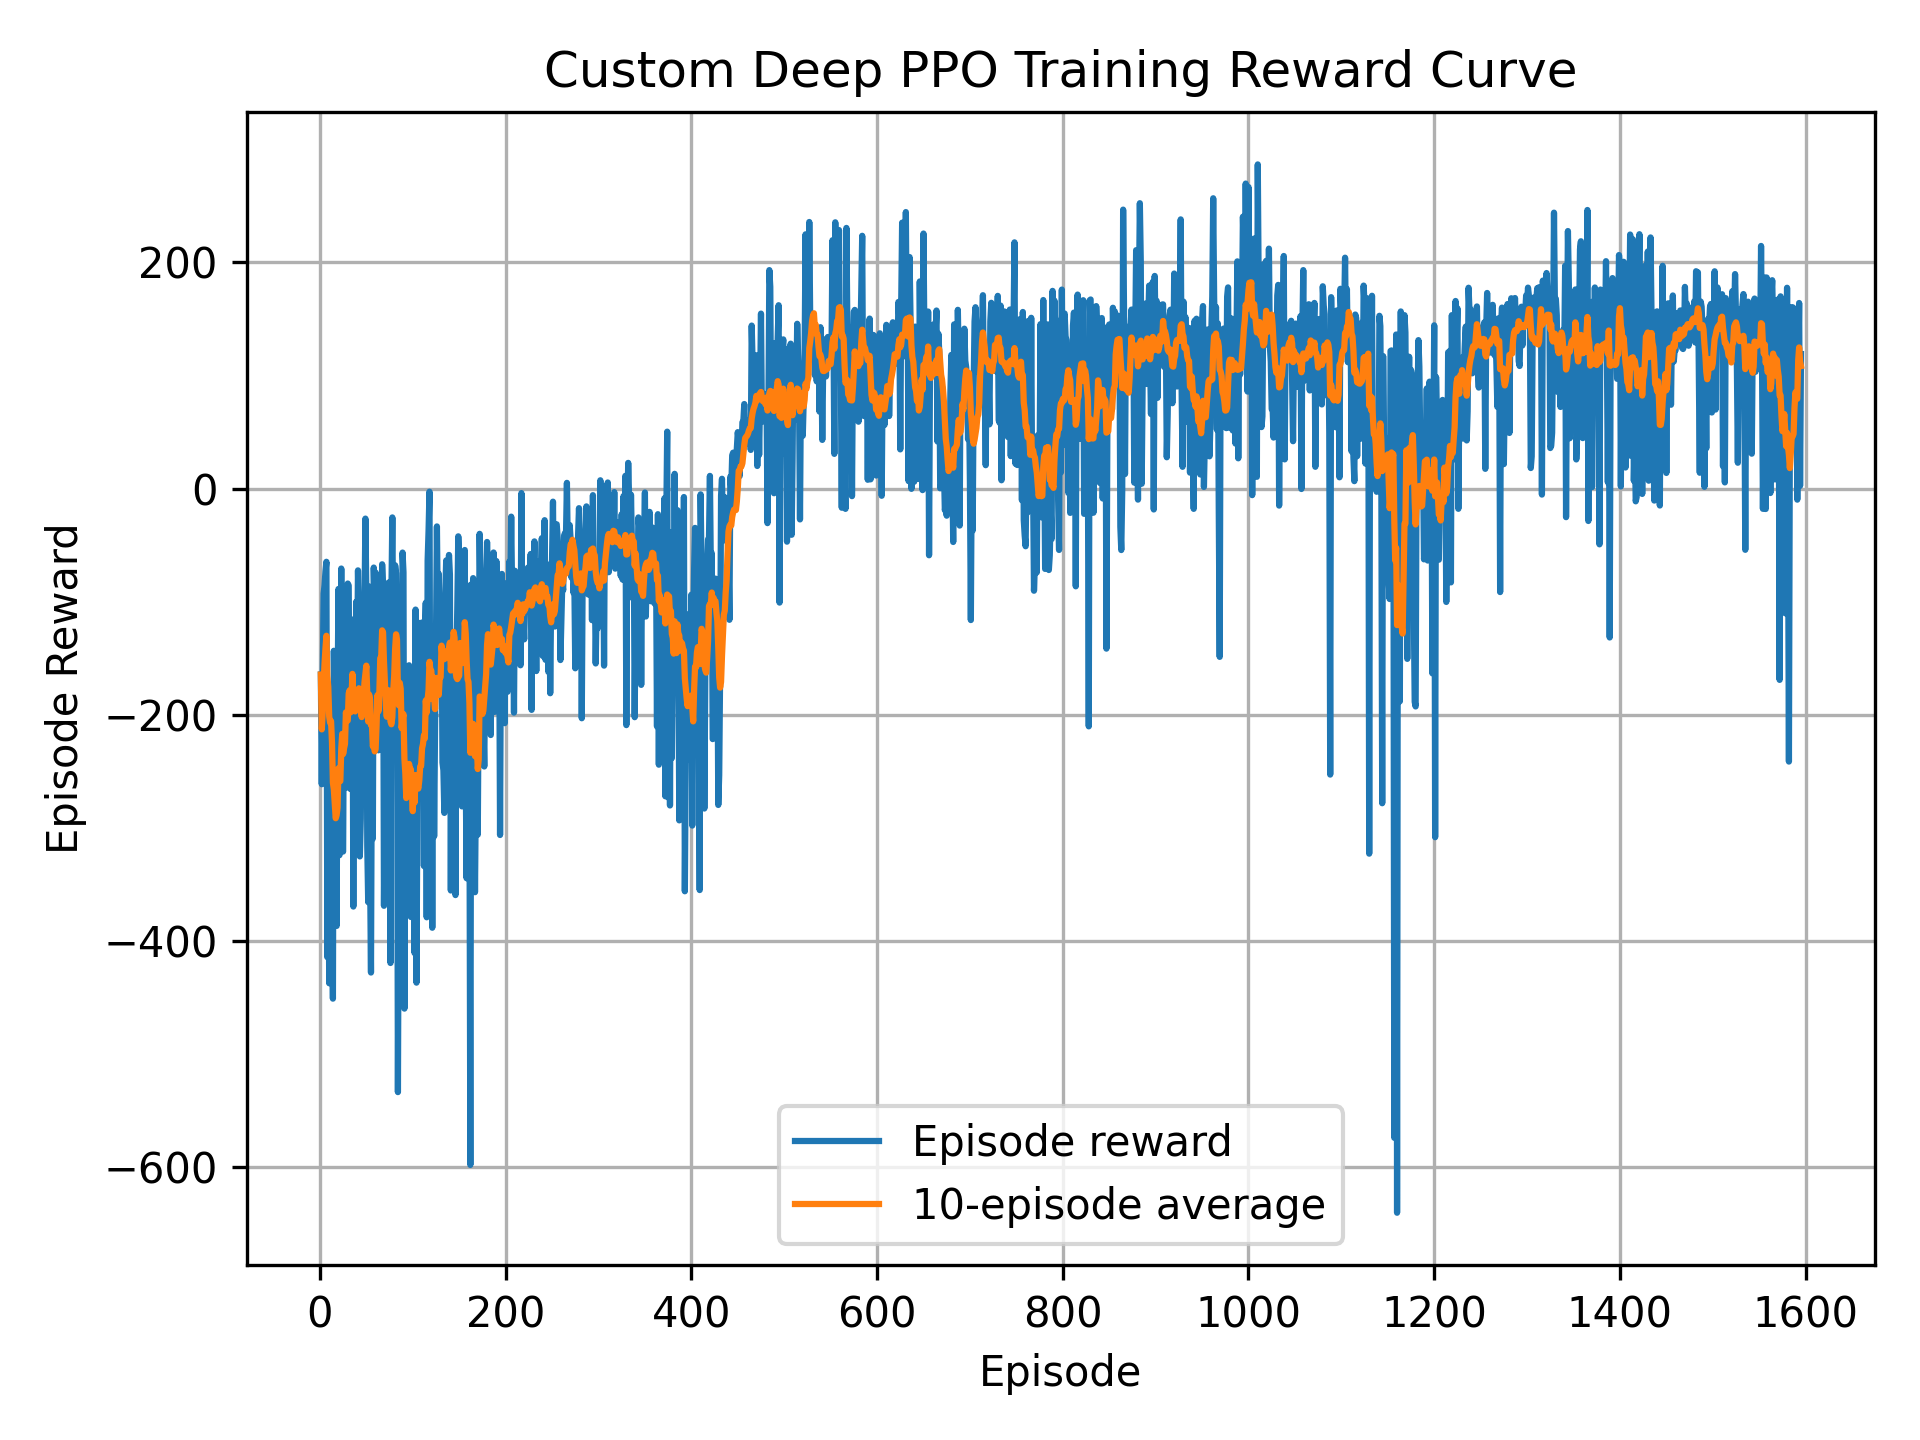
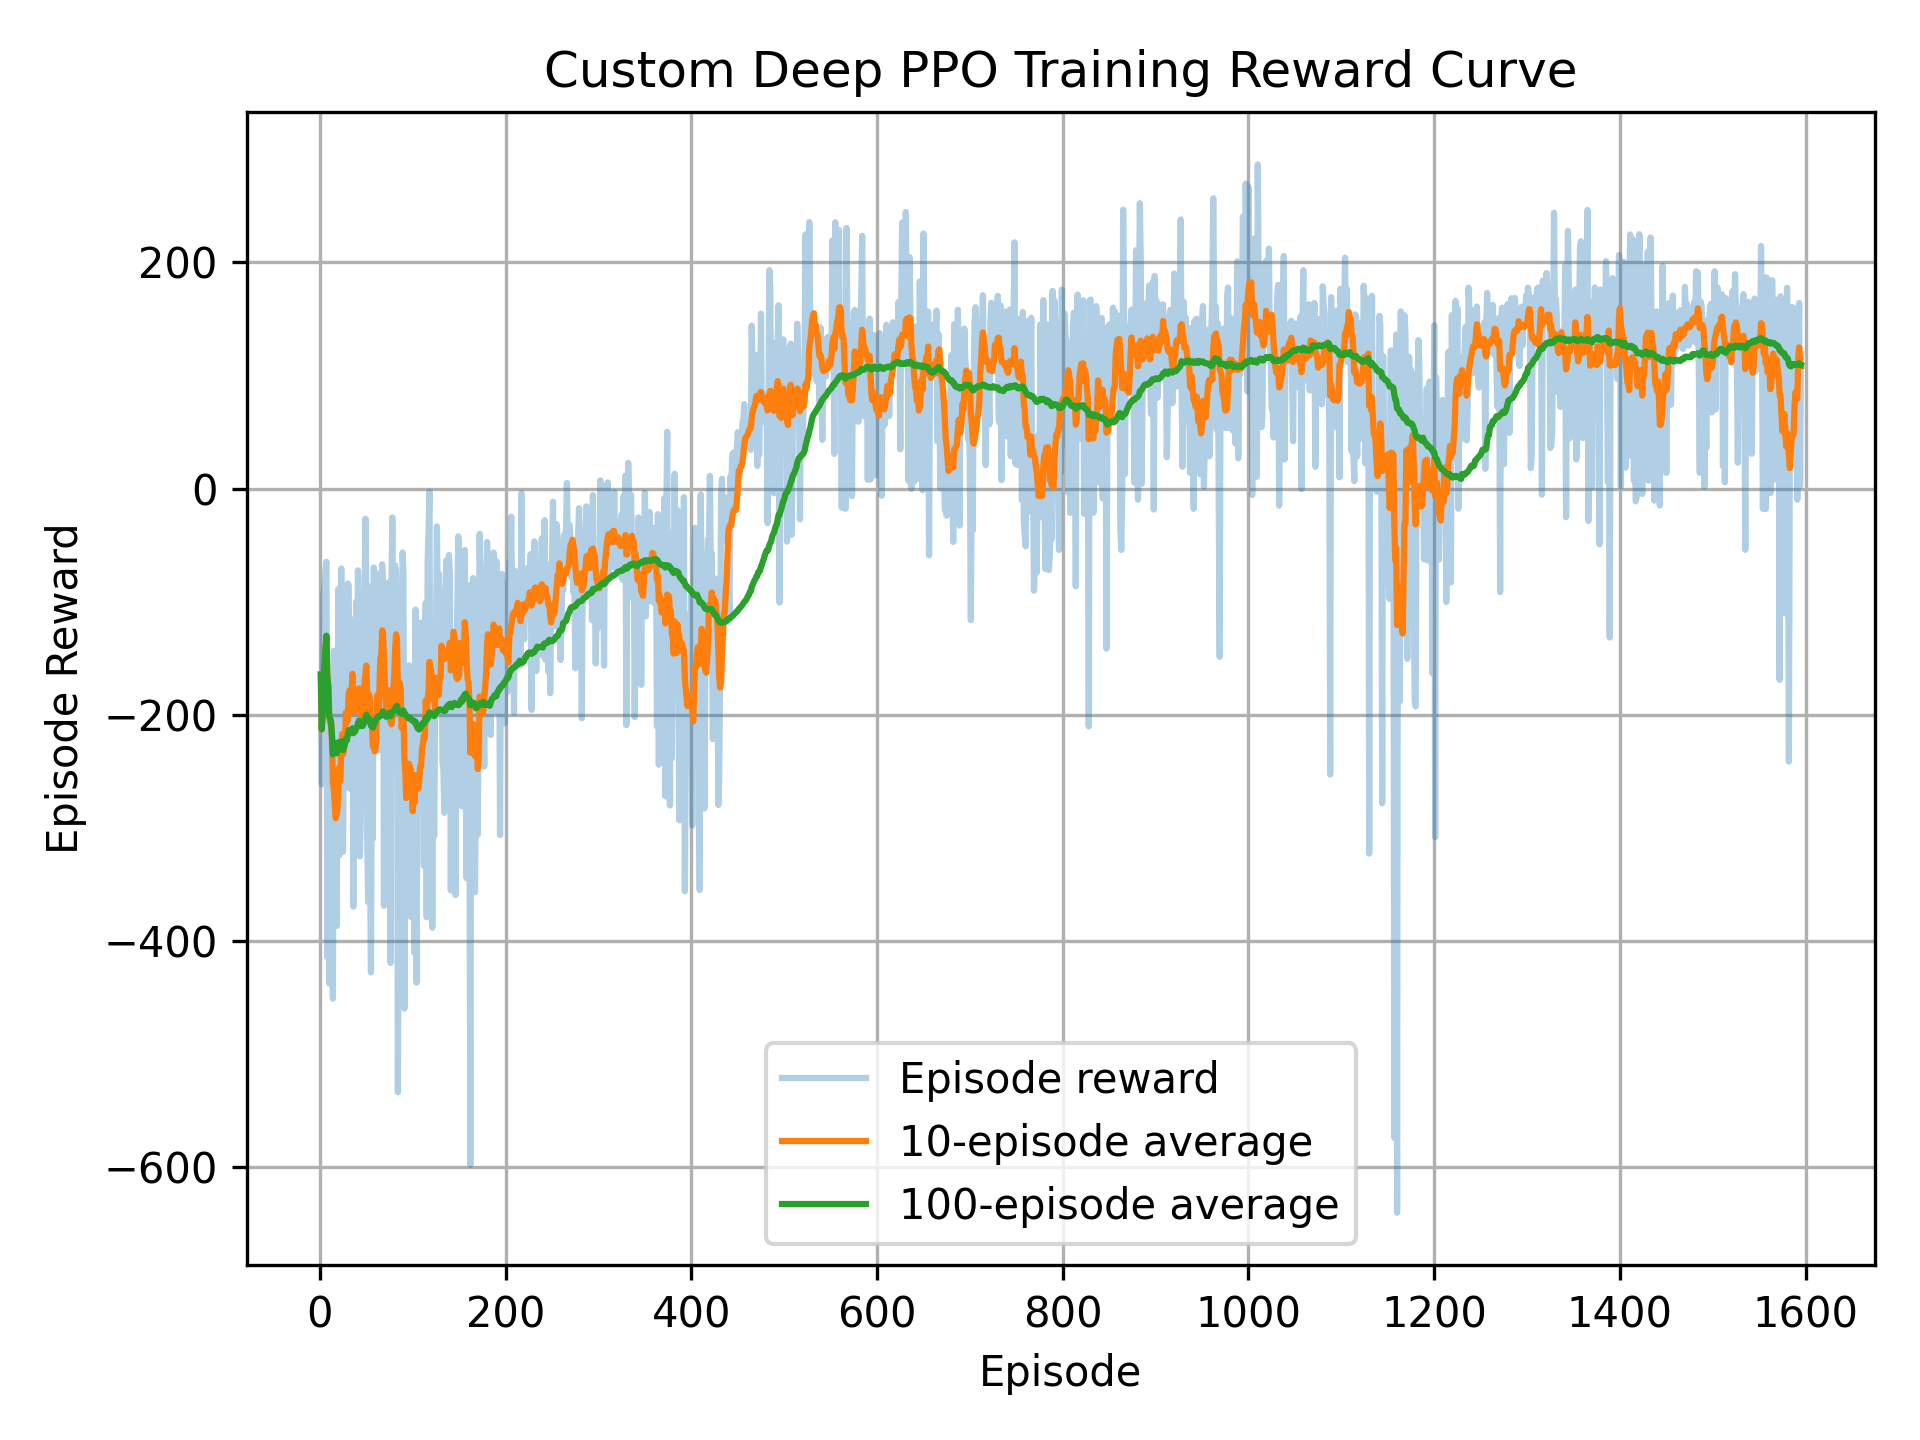
Smoothed additions

Changed region(s): [[0.1562, 0.125, 0.9375, 0.875]]

diff --git a/plot_results.py b/plot_results.py
@@ -15,9 +15,12 @@ SAC_LOG = "logs/custom_sac/training_log.csv"
 def plot_custom_ppo():
     df = pd.read_csv(CUSTOM_PPO_LOG)
 
+    df["avg_reward_100"] = df["episode_reward"].rolling(window=100, min_periods=1).mean()
+
     plt.figure()
-    plt.plot(df["episode"], df["episode_reward"], label="Episode reward")
+    plt.plot(df["episode"], df["episode_reward"], label="Episode reward", alpha=0.35)
     plt.plot(df["episode"], df["avg_reward_10"], label="10-episode average")
+    plt.plot(df["episode"], df["avg_reward_100"], label="100-episode average")
     plt.xlabel("Episode")
     plt.ylabel("Episode Reward")
     plt.title("Custom Deep PPO Training Reward Curve")

diff --git a/README.md b/README.md
@@ -107,7 +107,6 @@ Custom Deep PPO successfully learned the landing task and is the main coursework
 </p>
 
 ## Notes
-
 - The main model is the custom Deep PPO implementation.
 - PPO includes rollout collection, policy sampling, GAE advantage calculation, clipped PPO loss, value loss, entropy bonus, and gradient clipping.
 - SAC is included as an additional comparison model.
